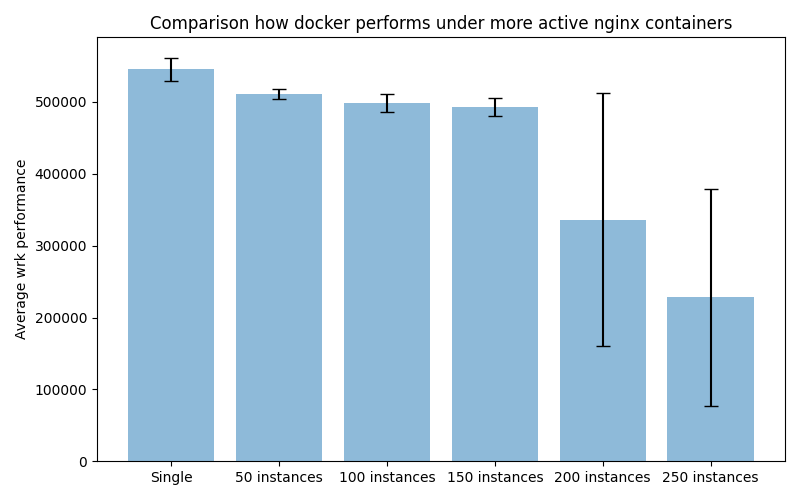
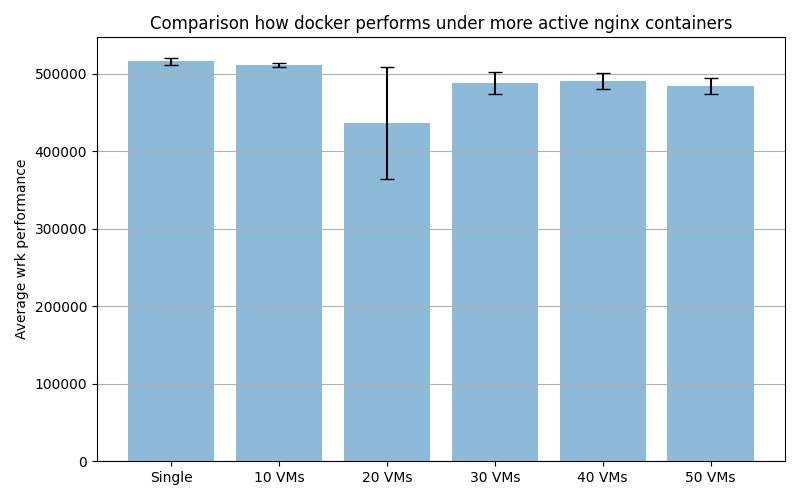
Update figures after performing Unikraft benchmark

diff --git a/benchmark_cli/experiments/unikraft_nginx_experiment.py b/benchmark_cli/experiments/unikraft_nginx_experiment.py
@@ -6,7 +6,7 @@ import logging as log
 from helpers.unikraft_helpers import run_unikraft
 
 EXPERIMENT_NAME = "uk_ng_s"
-INSTANCES = 50
+INSTANCES = 10
 
 def setup_network(ips_required):
     subprocess.run("sudo ip link set dev virbr0 down", shell=True)
@@ -21,9 +21,8 @@ def setup_network(ips_required):
     subprocess.run("sudo ip link set dev virbr0 up", shell=True)
 
 def run_wrk_benchmark(file_data, ip_address):
-    subprocess.Popen(
-        f"wrk -d 1m -c 30 -t 14 http://{ip_address}/ > {file_data}",
-        shell=True
+    os.system(
+        f"wrk -d 1m -c 30 -t 14 http://{ip_address}/ > {file_data}"
     )
 
 def run_unikraft_nginx_experiment(run_index):
@@ -51,11 +50,11 @@ def run_unikraft_nginx_experiment(run_index):
         name="nginx",
     )
     active_vms += 1
-    time.sleep(10)
+    time.sleep(25)
     log.info("Main VM started. Starting first wrk benchmark")
 
-    run_wrk_benchmark(f"benchmark-data/{EXPERIMENT_NAME}-{run_index}-data-single.out", ips[0])
-    time.sleep(100)
+    run_wrk_benchmark(f"benchmark-data/{EXPERIMENT_NAME}/{run_index}-data-single.out", ips[0])
+    time.sleep(10)
     log.info("Benchmark finished. Continuing!")
 
     for i in range(5):
@@ -67,9 +66,9 @@ def run_unikraft_nginx_experiment(run_index):
             )
             active_vms += 1
 
-        time.sleep(10)
+        time.sleep(35)
         log.info(f"Started {INSTANCES} additional containers. Performing new benchmark now")
 
-        run_wrk_benchmark(f"benchmark-data/{EXPERIMENT_NAME}-{run_index}-data-{(i+1)*INSTANCES}.out", ips[0])
-        time.sleep(100)
+        run_wrk_benchmark(f"benchmark-data/{EXPERIMENT_NAME}/{run_index}-data-{(i+1)*INSTANCES}.out", ips[0])
+        time.sleep(10)
         log.info("Benchmark finished. Continuing!")

diff --git a/benchmark_cli/analytics/analyzer.py b/benchmark_cli/analytics/analyzer.py
@@ -6,11 +6,11 @@ import matplotlib.pyplot as plt
 FILE_NAMES = {
     "uk_ng_s": [
         "data-single.out",
+        "data-10.out",
+        "data-20.out",
+        "data-30.out",
+        "data-40.out",
         "data-50.out",
-        "data-100.out",
-        "data-150.out",
-        "data-200.out",
-        "data-250.out",
     ],
     "d_ng_s": [
         "data-single.out",
@@ -65,11 +65,12 @@ def make_plot(data, file_name):
     std = np.std(data, axis=1)
 
     labels = [
-        'First',
-        'Second',
-        'Third',
-        'Fourth',
-        'Fifth'
+        'Single',
+        '10 VMs',
+        '20 VMs',
+        '30 VMs',
+        '40 VMs',
+        '50 VMs',
     ]
     x_pos = np.arange(len(labels))
 
@@ -83,7 +84,7 @@ def make_plot(data, file_name):
     ax.set_xticks(x_pos)
     ax.set_xticklabels(labels)
     ax.set_title('Comparison how docker performs under more active nginx containers')
-    # ax.yaxis.grid(True)
+    ax.yaxis.grid(True)
 
     # Save the figure and show
     plt.tight_layout()
@@ -92,5 +93,6 @@ def make_plot(data, file_name):
 
 
 if __name__ == "__main__":
-    data = get_data("uk_ng_p", 5, "../benchmark-data/uk_ng_p")
-    make_plot(data, "uk_ng_p")
+    data = get_data("uk_ng_s", 2, "../benchmark-data/uk_ng_s")
+    print(data)
+    make_plot(data, "uk_ng_s")
